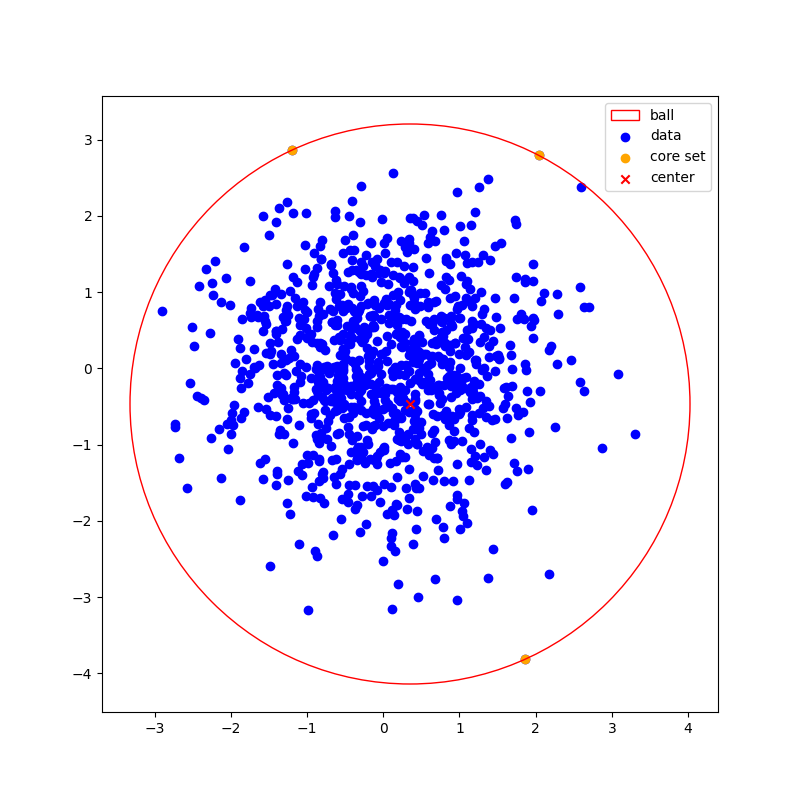
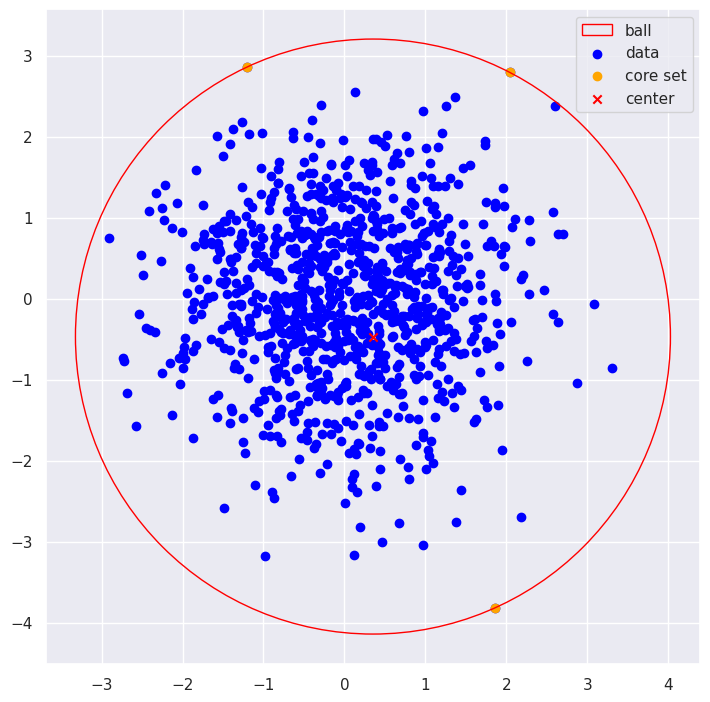
set plot style

diff --git a/src/core_set_example.py b/src/core_set_example.py
@@ -1,8 +1,10 @@
 import numpy as np
 import matplotlib.pyplot as plt
+import seaborn as sns
 
 from meb.ball import MEB
 import data.generation
+import plot_settings
 
 n = 1000
 d = 2
@@ -11,4 +13,8 @@ np.random.seed(1000)
 data = data.generation.normal(0, 1, n, d)
 
 ball = MEB().fit(data, method="socp_heuristic", eps=1e-4)
-ball.plot(data)
+
+ball.plot(data, show=False, figsize=8.5)
+plt.legend()
+plt.savefig(r"images/core_set_example.png", bbox_inches='tight')
+plt.show()
